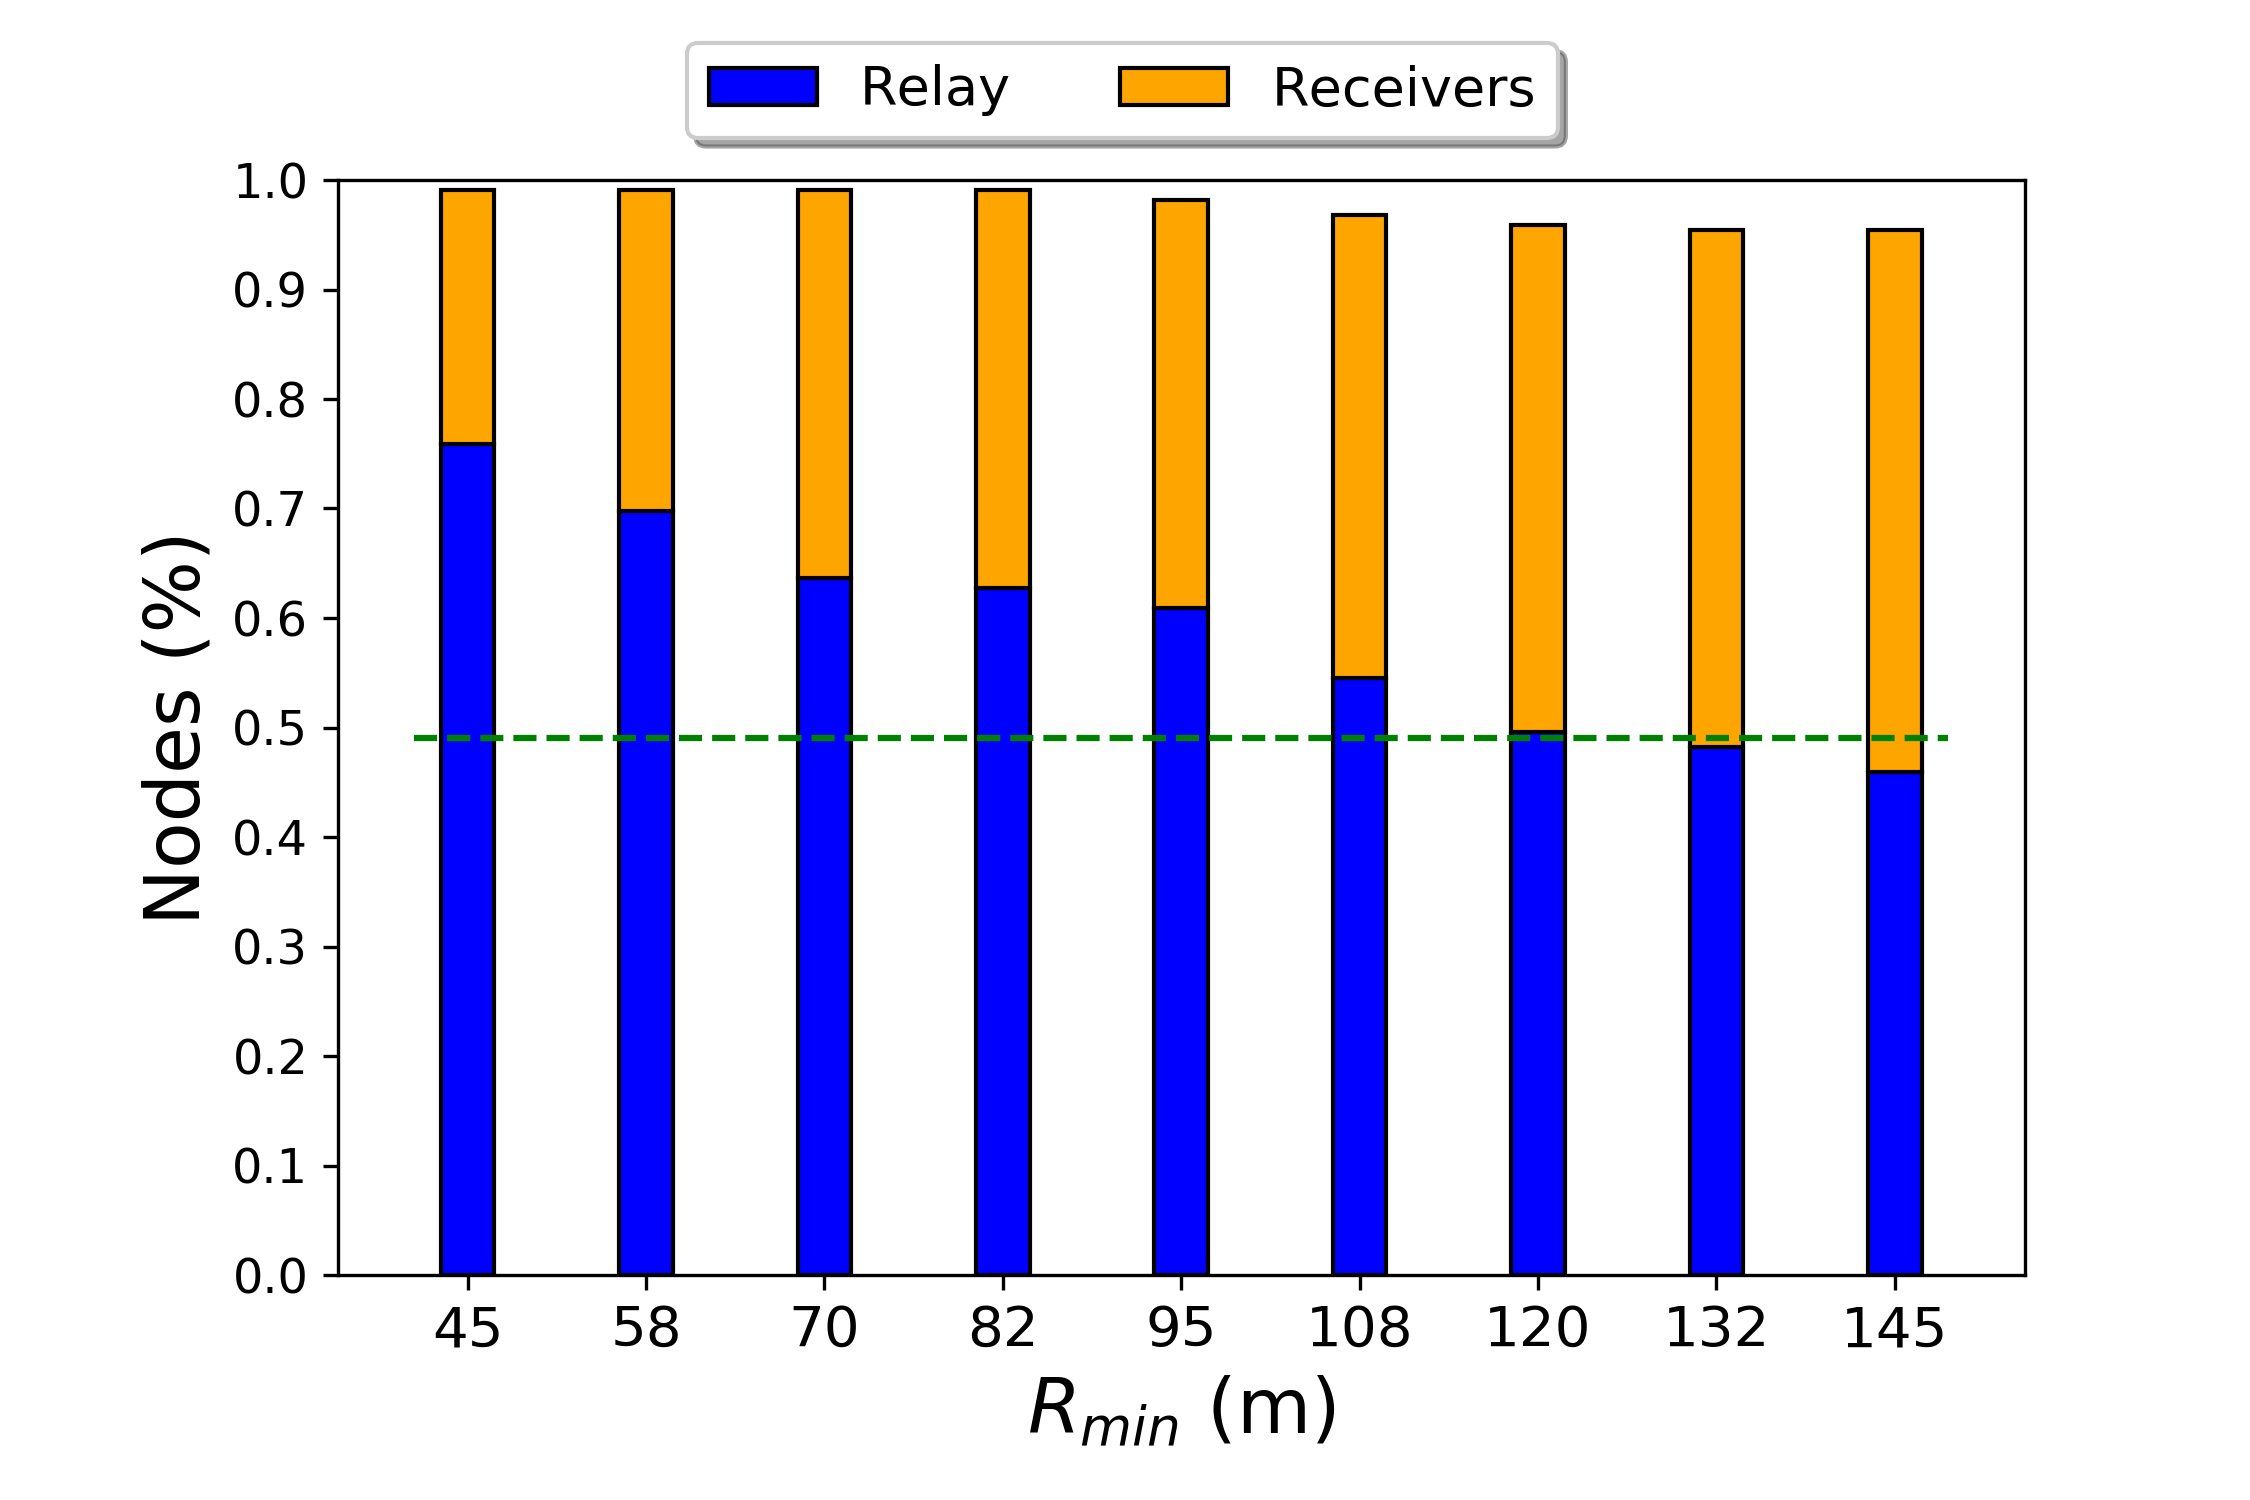
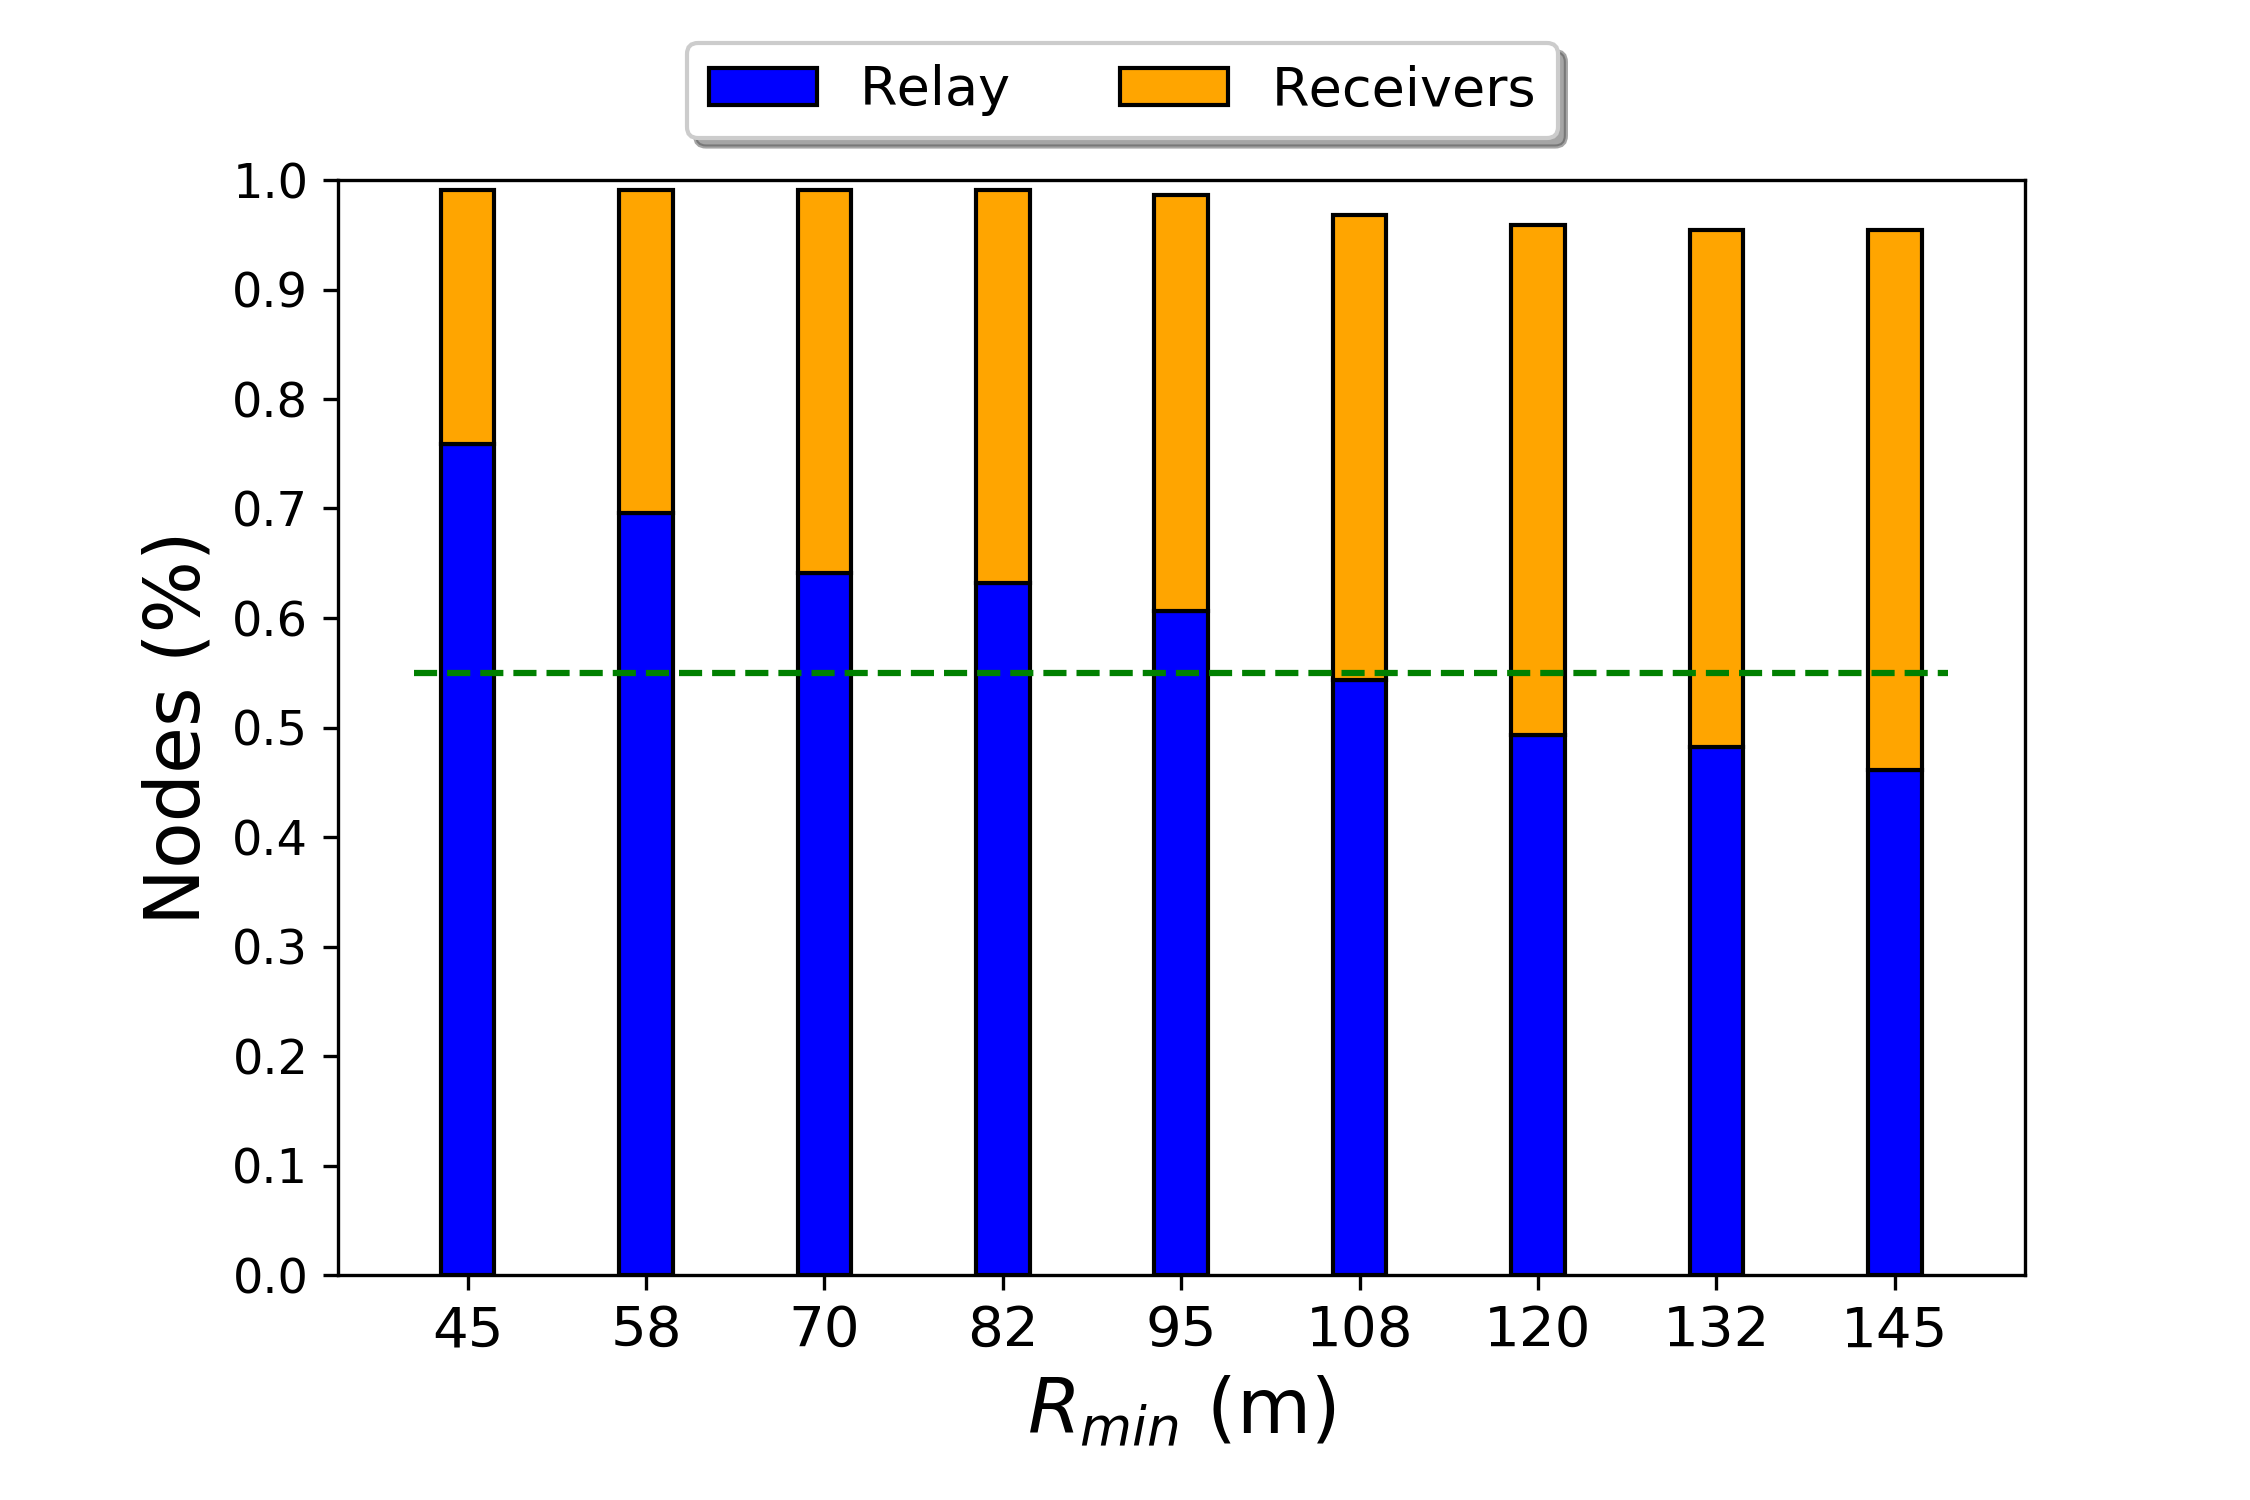
add CSC forward ratio

diff --git a/grafici/invited/Rmin-comparison.py b/grafici/invited/Rmin-comparison.py
@@ -119,14 +119,28 @@ def make_plot(n_cars, means_recv_ratio, means_frwd, labels=None):
     ax.set_position([box.x0, box.y0 + box.height * 0.1,
                     box.width, box.height * 0.9])
 
-    if config.city_name == "Luxembourg":
-        plt.hlines(279/790,-0.3,8.3, colors="g", linestyles="--")  #LUXEMBOURG CSC
-    elif config.city_name == "Cologne":
-        plt.hlines(214/436,-0.3,8.3, colors="g", linestyles="--")  #COLOGNE CSC
-    elif config.city_name == "NewYork":
-        pass   # NO COMPARISON WITH NY AVAILABLE YET
-    else:
-        raise Exception("not implemented")
+    # Here are reported the number of relay vehicles using the CSC algorithm
+    scenario_CSC = {
+        "Luxembourg": {
+            "time27100Tper1000.txt": 279/790,
+            "time27100Tper50.txt": 301/787
+        },
+        "Cologne": {
+            "time23000Tper1000.txt": 214/436,
+            "time23000Tper50.txt": 121/220
+        },
+        "NewYork": {
+            "Newyork7005.mat": 260/672,
+            "Newyork3005.mat": 172/432
+        }
+    }
+
+    city, scenario = config.city_name, config.scenario
+    try:
+        CSC_frw = scenario_CSC[city][scenario]
+    except KeyError:
+        raise Exception(f"CSC values not found for {city} {scenario}")
+    plt.hlines(CSC_frw, -0.3, 8.3, colors="g", linestyles="--")
 
     plt.ylabel('Nodes (%)')
     plt.xlabel(r'$R_{min}$ (m)')
